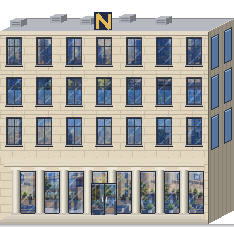
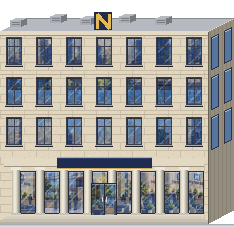
Character outline shader, portrait shading, board-style creator preview, UI polish
- Whole-silhouette outline for layered characters (CanvasGroup + shader)
- Portraits: form shading, head outline, anime iris gradient + sparkle, blush
- Creator: Front/Side/Back sheet (Board A) on the Board H wardrobe room
- Navy/gold name plate for Nexus Bank and City Hall (Board G)
- Toasts drop below open management screens; near-opaque backing for them
- Evidence collection script; README run/build/test notes; art manifest v3

Claude-Session: https://claude.ai/code/session_011hcsUQsaKTa8GosdyMcexR

Changed region(s): [[0.2393, 0.6784, 0.6581, 0.7709]]

diff --git a/tools/art/chars.py b/tools/art/chars.py
@@ -626,8 +626,18 @@ def draw_p_head(face):
     shaded(img, ears_m, GRAY_SKIN, 0, 0, hi=False)
     hm = p_head(face)
     shaded(img, hm, GRAY_SKIN, 0, 0, sh_depth=2)
-    # nose + cheek
-    put(img, 32, 37, GRAY_SKIN[1]); put(img, 33, 38, GRAY_SKIN[1])
+    # form shading: right cheek/jaw in shadow, soft shadow under the fringe, nose
+    for x, y in list(hm.pixels()):
+        if x >= 43 and y >= 26:
+            put(img, x, y, GRAY_SKIN[1])
+        elif 20 <= y <= 21 and 16 <= x <= 47:
+            put(img, x, y, GRAY_SKIN[1])
+    put(img, 33, 36, GRAY_SKIN[1]); put(img, 33, 37, GRAY_SKIN[1]); put(img, 32, 38, GRAY_SKIN[1])
+    # clean outline around head + ears (tinted with the skin -> warm dark line)
+    sil = hm.copy().union(ears_m)
+    for x, y in list(sil.pixels()):
+        if any(not sil.get(x + dx, y + dy) for dx, dy in ((1, 0), (-1, 0), (0, 1), (0, -1))):
+            put(img, x, y, (70, 70, 70, 255))
     return img
 
 
@@ -664,15 +674,17 @@ def draw_p_eyes(shape):
             ix0 = min(ix0, x + 6 - iw + 1)
             for yy in range(top + 1, top + h):
                 for xx in range(ix0, ix0 + iw):
-                    g = 215 if yy < top + 1 + (h - 1) // 2 else 160
-                    if yy == top + h - 1:
-                        g = 190
+                    # anime-style iris: deep at the top under the lash, glowing toward the bottom
+                    k = (yy - top - 1) / max(1, h - 2)
+                    g = int(120 + 120 * k)
                     put(iris, xx, yy - up, (g, g, g))
             # pupil + highlight
             px0 = ix0 + 1
             rect(lash, px0, top + 2 - up, px0 + (1 if ex_name != "surprised" else 0), top + min(h - 1, 4) - up, (28, 22, 34))
             put(lash, ix0, top + 1 - up + 1, WHITE)
             put(lash, ix0 + 1, top + 1 - up + 1, WHITE) if shape in ("round", "wide") else None
+            if h >= 5:  # second, smaller sparkle low in the iris
+                put(lash, ix0 + iw - 1, top + h - 2 - up, (255, 255, 255, 220))
             # upper lash line (thicker) + corners
             hline(lash, x, x + 7, top, LASH)
             hline(lash, x + 1, x + 6, top - 1 if shape != "narrow" else top, LASH)
@@ -713,6 +725,13 @@ def draw_p_mouth(style):
     img = psheet(4)
     for e, ex_name in enumerate(EXPR):
         ox = e * PW
+        # cheek blush (untinted layer, soft pink)
+        a = 110 if ex_name == "happy" else 70
+        for cx in (ox + 21, ox + 39):
+            for dx in range(4):
+                put(img, cx + dx, 37, (236, 120, 120, a))
+            for dx in (1, 2):
+                put(img, cx + dx, 38, (236, 120, 120, a // 2))
         x, y = ox + 29, 43
         if ex_name == "happy" or (ex_name == "neutral" and style == "grin"):
             rect(img, x - 1, y, x + 6, y + 2, LIP_DARK)

diff --git a/tools/art/facades.py b/tools/art/facades.py
@@ -756,7 +756,13 @@ def build(bid, spec):
         steps(b, 6, W - 7, base - 8, 3)
         glass_door(b, dx, dy - 8, dw, dh)
         meta_door_shift = 8
-        sign = [dx - 26, gy + 2, dw + 52, 7]
+        # Board-G style name plate: navy panel with a gold rule (text is drawn in-game)
+        sx0, sx1 = max(4, dx - 34), min(W - 5, dx + dw + 34)
+        rect(img, sx0, gy, sx1, gy + 11, (30, 44, 82))
+        hline(img, sx0, sx1, gy, (206, 170, 92))
+        hline(img, sx0, sx1, gy + 11, (206, 170, 92))
+        hline(img, sx0 + 1, sx1 - 1, gy + 1, (46, 64, 112))
+        sign = [sx0, gy + 1, sx1 - sx0, 10]
         dy = dy - 8
     # entrance shadow, ground contact
     b.ground_shadow()

diff --git a/tools/art/concepts.py b/tools/art/concepts.py
@@ -650,6 +650,7 @@ def generate(assets_dir: str) -> None:
     bd = os.path.join(assets_dir, "backdrops")
     save(cover("C", (736, 172, 1438, 508), (752, 360)), os.path.join(bd, "menu.png"))
     save(arrival_backdrop(), os.path.join(bd, "arrival.png"))
+    save(cover("H", (1165, 800, 1318, 965), (200, 250), colors=96, sharpen=0.2), os.path.join(bd, "wardrobe.png"))
     save(skyline_strip(SKY_DAY, top=(92, 150, 226)), os.path.join(bd, "skyline_day.png"))
     save(skyline_strip(SKY_NIGHT, top=(14, 18, 44)), os.path.join(bd, "skyline_night.png"))
     for cid, (k, b, fix) in CARDS.items():

diff --git a/docs/ART_ASSET_MANIFEST.md b/docs/ART_ASSET_MANIFEST.md
@@ -4,6 +4,39 @@ Style: **NEO-CIVIC PIXEL REALISM** (Handoff §37–§50, §83–§85; concept bo
 Grid: 16 px environment tiles. Characters are 32×48 frames. Nearest-neighbor scaling at 2×/3× (base 640×360).
 Palette anchors: see `CITY_VENTURE_SPEC_READBACK.md` §F. Placeholders come from `tools/art/gen_placeholders.py` into `game/assets/`, one file per row below, so final art replaces them 1:1 by path.
 
+### Status after Art Pass v3 (feedback: "still not good enough — match the boards' style, content and quality")
+
+Art Pass v3 turns the approved concept boards themselves into game-ready assets, as Handoff §83 requires for AI concept
+art ("must be converted into consistent game-ready sprites"). The conversion is code, not hand edits:
+`tools/art/concepts.py` crops each asset from `docs/reference/concept_boards/`, keys out the board background
+(border-connected flood region + de-fringe), downsamples in premultiplied alpha onto the game's pixel grid, snaps to a
+per-asset palette, and darkens the silhouette edge. Where the converted art is bigger than the old footprint, the overhang
+is written to `game/assets/sprite_meta.json` so placement data and collisions keep working. Everything regenerates with
+`python3 tools/art/gen_placeholders.py` (needs `pip install -r tools/requirements.txt`).
+
+| Area | Source board(s) | What is in the game now | Status |
+|------|-----------------|--------------------------|--------|
+| Street props: lamps, banner lamps, trees (3), planters, flower boxes, bins, digital kiosk, Metro pylon, A-frame, cone, bollard, bench | C "Props & Environment", G "Architectural details", A "Pixel style" | Converted sprites replace the procedural ones 1:1 by name | CONV |
+| Interior furniture: desks, office/leather chairs, monitor desks, whiteboard, bookshelf, plants, exec desk, sofas, bed, coffee table, TV, kitchen, ATM, brochure stand, queue barrier, waiting sofa, café tables/chairs/armchair, display case, pendant lights, filing cabinet, lockers, phone booth, lounge sofa, community table, server rack, ticket machine, info kiosk; bank/civic/café counters (composites) | H prop strips, A | Converted sprites | CONV |
+| Interior windows (day/night, normal/wide) | G day skyline banner, D dusk skyline banner | Window frames show the board skyline | CONV + GEN frame |
+| Interior floors (wood warm/dark/café, marble, concrete) | Board H palette | Continuous 512×320 non-repeating floors | GEN v3 |
+| Building facades | G skyline (glass reflections), H/C interiors (storefront + office glass), C/G plants (roof edges) | Procedural volumes from v2, now textured with board content | GEN v3 + CONV textures |
+| District sky | G day banner, D dusk banner | Parallax skyline behind every block, day→dusk→night cross-fade | CONV |
+| Main menu backdrop | C "Mixed-use Neighborhood (Day)" | Full-bleed, slow pan | CONV |
+| Arrival backdrop | D skyline banner | Dusk skyline + generated river reflection; train/bridge drawn in-game | CONV + GEN |
+| City Map screen | F "Main City Map (Isometric)" | Board map; district labels redrawn as live in-game buttons over the board's label spots | CONV |
+| City Map district images | F district marker tiles, C/F/G/H panels | Info-panel pictures | CONV |
+| World Map screen | E "World Map" | Board map; region labels redrawn in-game; Aurelia pin added | CONV |
+| Region previews | E "Region Preview" | Thumbnails in labels and the info strip | CONV |
+| Location cards (first visit) | C, F, G, H panels | Riverside, Financial, Startup Hub, Civic Center, City Hall, Nexus Bank, Riverside Tower, Bloom Coffee, Bean & Byte, Nexus Co-work, Suite 2B | CONV (City Hall sign re-lettered "AURELIA") |
+| Character sprites | — | Procedural rig from v1/v2; v3 adds a whole-silhouette outline shader (`shaders/char_outline.gdshader`) | GEN v2 + outline |
+| Portraits | — | v3 adds form shading, head outline, anime-style iris gradient + sparkle, cheek blush | GEN v3 |
+
+Legend addition: **CONV** means the asset is converted from the approved concept boards by `concepts.py`. It has a consistent
+grid and palette, but it is **not final hand-finished art**. The boards are AI concept images, and a pixel artist should
+repaint the final assets. Board text that clashed with game data was fixed: the cafe is now "Bean & Byte" (Board H) and City
+Hall's "Riverdale" sign now reads "Aurelia". Characters are still the weakest area compared with the boards.
+
 ### Status after Art Pass v2 (feedback: "too simple — needs design sense, use the boards")
 
 | Area | Generator | What changed vs v1 | Status |

diff --git a/README.md b/README.md
@@ -9,3 +9,24 @@ A modern pixel-art business-life RPG. Build · Live · Connect · Grow.
 - **Data schema:** [`docs/GAME_DATA_SCHEMA.md`](docs/GAME_DATA_SCHEMA.md) · **Art manifest:** [`docs/ART_ASSET_MANIFEST.md`](docs/ART_ASSET_MANIFEST.md) · **Story:** [`docs/STORY_IMPLEMENTATION.md`](docs/STORY_IMPLEMENTATION.md)
 
 Engine: Godot 4.5.x (project in `game/`).
+
+## Run
+
+```bash
+godot --path game                       # play (1280×720 window, 640×360 pixel canvas)
+```
+
+Controls: WASD/arrows walk (Shift run) · E/Space interact · Tab phone · M city map · hold T fast-forward · Esc pause/close.
+
+## Build, test, evidence
+
+```bash
+pip install -r tools/requirements.txt   # numpy, pillow, opencv (art conversion)
+tools/build.sh                          # art → district layout → import → unit tests → Windows + Linux export
+godot --headless --path game res://tests/test_runner.tscn                  # unit tests
+godot --headless --path game -- --bot=walkthrough --out=/tmp/wt            # full slice played by real input
+```
+
+- QA report: [`docs/QA_REPORT.md`](docs/QA_REPORT.md) · evidence: [`evidence/vs001/`](evidence/vs001/)
+- Art is generated/converted by code in `tools/art/` (`concepts.py` converts the approved concept boards in
+  `docs/reference/concept_boards/` into game-ready sprites; see the art manifest for what is converted vs generated).
